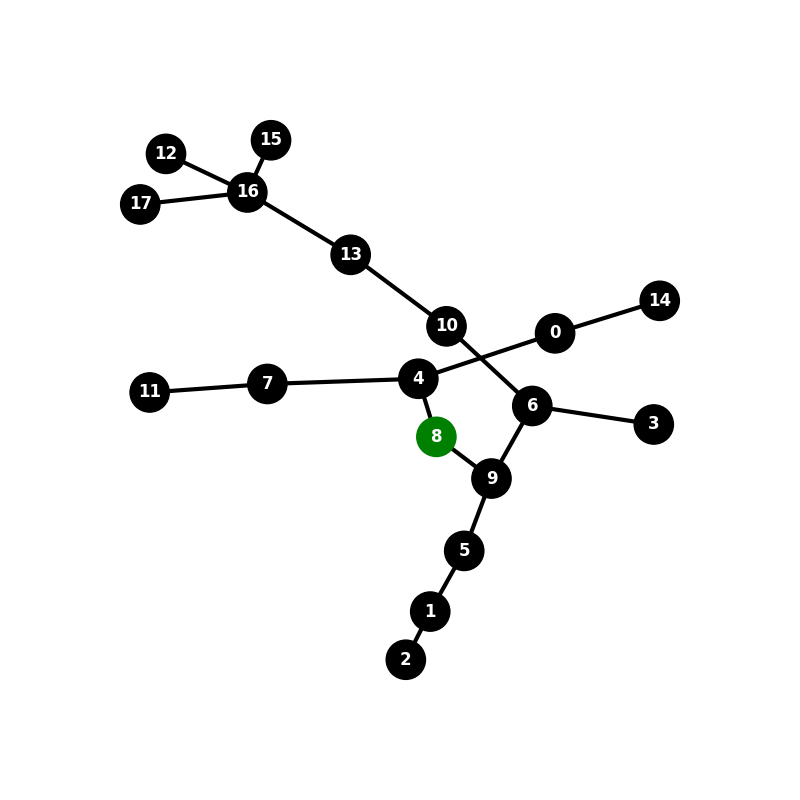
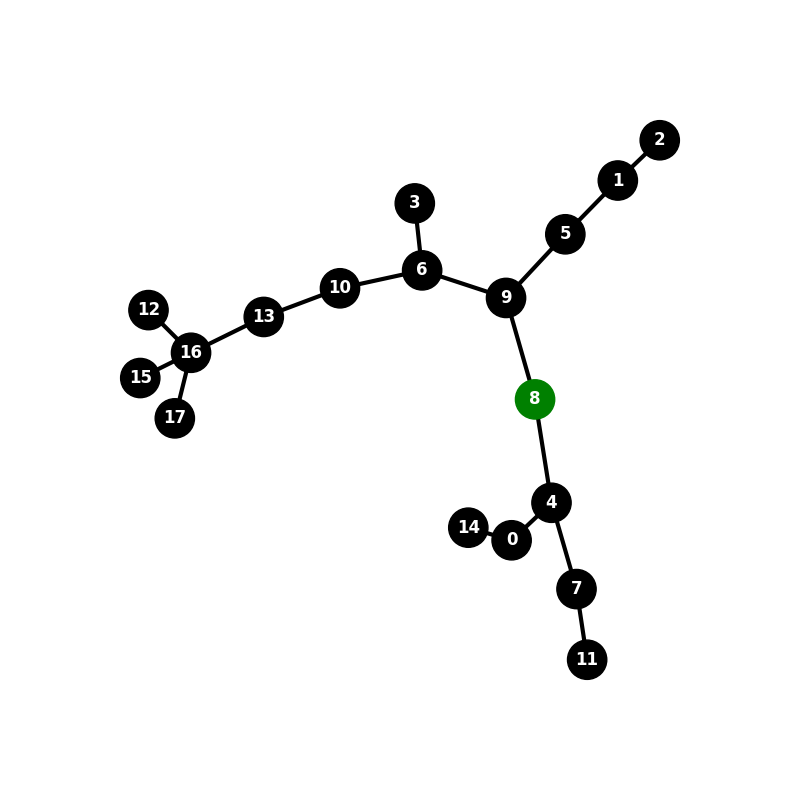
Update: modify function bfs to generate a tree instead of just returning the node as the output Create: bfs_forest for returning a forest instead of just the main tree in case of nodes isolated of the main subgraph

diff --git a/main.py b/main.py
@@ -13,7 +13,7 @@ graph = {
     7: [2, 4],
 }
 
-graph_17nodes_root0 = {
+dfs_graph_17nodes_root0 = {
     0: [1, 2, 4, 7, 14],
     1: [0, 2, 4, 5],
     2: [0, 1, 6],
@@ -34,7 +34,7 @@ graph_17nodes_root0 = {
     17: [3, 10, 13],
 }
 
-graph_17nodes_root8 = {
+dfs_graph_17nodes_root8 = {
     0: [4, 14],
     1: [2, 5],
     2: [1, 5],
@@ -53,6 +53,49 @@ graph_17nodes_root8 = {
     15: [16],
     16: [12, 13, 15, 17],
     17: [13, 16]
+}
+
+bfs_graph_17nodes_root0 = {
+    0: [1, 4, 7, 14],
+    1: [0, 5],
+    2: [3, 5, 6],
+    3: [2, 6, 10],
+    4: [0],
+    5: [1, 2, 8, 9],
+    6: [2, 3, 9, 10],
+    7: [0, 8, 11, 14],
+    8: [5, 7, 9],
+    9: [5, 6, 8, 13],
+    10: [3, 6],
+    11: [7, 12, 15],
+    12: [11, 13, 15, 16],
+    13: [9, 12, 16],
+    14: [0, 7],
+    15: [11, 12, 16, 17],
+    16: [12, 13, 15, 17],
+    17: [15, 16],
+}
+
+# generate forest
+bfs_graph_17nodes_root8 = {
+    0: [2],
+    1: [0, 2, 5, 4],
+    2: [0, 1, 3, 5, 6],
+    3: [2, 6, 10],
+    4: [1, 5, 7, 8],
+    5: [1, 2, 4, 6, 8, 9],
+    6: [2, 3, 5, 10],
+    7: [4, 8],
+    8: [4, 5, 7, 9],
+    9: [5, 8, 10, 13],
+    10: [3, 6, 9, 13],
+    11: [14],
+    12: [13, 16],
+    13: [9, 10, 12, 16],
+    14: [11],
+    15: [17],
+    16: [12, 13, 17],
+    17: [15, 16],
 }
 
 
@@ -124,7 +167,7 @@ def generate_graph(graph, root, image_name): # root is the node that starts the 
     plt.savefig(f'images/{image_name}.png')
     plt.clf() # for the image not to be overlap by the last one, when calling the function more then one time
 
-def get_child_not_visited(graph, node, visited):
+def get_neighbor_not_visited(graph, node, visited):
 
     if node not in graph:
         return None
@@ -136,30 +179,54 @@ def get_child_not_visited(graph, node, visited):
 
 def bfs(graph, root):
     visited = set()
-    queue = deque() # deque() to implement FIFO, because set is without order
-                    # deque also takes O(1) time to remove first element while the list takes O(n)
+    tree = {root: []} # tree = {node: [neighbor1, neighbor2]}
+    queue = deque() # deque implements a FIFO queue efficiently
+                    # popleft() takes O(1) time, while removing the first
+                    # element from a list takes O(n)
 
     visited.add(root)
     queue.append(root)
 
-    print('BFS:')
-
     while queue:
         node = queue.popleft() # remove the first element in the queue
-        print(node, end=' ')
 
+        print(f"Current node: {node}")
+        print(f"Queue: {list(queue)}\n")
+        
         for neighbor in graph[node]:
             if neighbor not in visited:
                 visited.add(neighbor)
+
+                # assure that the neighbor is in the tree
+                if neighbor not in tree:
+                    tree[neighbor] = []
+                
+                # add the neighbor to the tree as a child of the current node
+                tree[node].append(neighbor) 
+
                 queue.append(neighbor)
+
+    return tree
+
+# generate forest with the roots being the first node of the graph that is not visited yet
+def bfs_forest(graph, root):
+    visited = set()
+    forest = {} # forest = {node_tree1: [neighbor1, neighbor2], node_tree1: [neighbor3] node_tree2: [neighbor4, neighbor5]}
+
+    for node in graph:
+        if node not in visited:
+            tree = bfs(graph, node)
+            for node_tree in tree:
+                forest[node_tree] = tree[node_tree]
+            visited.update(tree.keys()) # add all nodes of the tree to the visited set
+        
+    return forest
     
-    print('\n\n')
 
 def dfs(graph, root):
     visited = set()
     tree = {root: []} # tree = {node: [neighbor1, neighbor2]}
-    stack = [root] # stack = [(node, parent)]
-                   # no need to use deque, since list already takes O(1) time to append and pop the element in last position
+    stack = [root] # no need to use deque, since list append() and pop() from the end are already O(1)
                            
     visited.add(root)
 
@@ -172,20 +239,20 @@ def dfs(graph, root):
         print(f"Current node: {node}")
         print(f"Stack: {stack}\n")
 
-        # check next child of the last node in the stack
-        child_not_visited = get_child_not_visited(graph, node, visited)
+        # check next neighbor of the last node in the stack
+        neighbor_not_visited = get_neighbor_not_visited(graph, node, visited)
 
-        if child_not_visited is not None:
-            visited.add(child_not_visited)
+        if neighbor_not_visited is not None:
+            visited.add(neighbor_not_visited)
 
-            # assure that the child is in the tree
-            if child_not_visited not in tree:
-                tree[child_not_visited] = []
+            # assure that the neighbor is in the tree
+            if neighbor_not_visited not in tree:
+                tree[neighbor_not_visited] = []
             
-            # add the child to the tree as a child of the last node in the stack
-            tree[node].append(child_not_visited) 
+            # add the neighbor to the tree as a child of the last node in the stack
+            tree[node].append(neighbor_not_visited) 
 
-            stack.append(child_not_visited)
+            stack.append(neighbor_not_visited)
 
             # image_name = f'dfs_tree_{node}_{i}'
             # generate_graph(tree, root, image_name)
@@ -198,18 +265,33 @@ def dfs(graph, root):
 print('GRAPH:')
 generate_graph(graph, 1, 'graph')
 dfs_tree = dfs(graph, 1)
-generate_graph(dfs_tree, 1, 'dfs_tree')
+generate_graph(dfs_tree, 1, 'dfs_tree_graph')
 print(f'\n{"-"*20}\n')
 
-print('GRAPH 17 NODES ROOT 0:')
-generate_graph(graph_17nodes_root0, 0, 'graph_17nodes_root0')
-dfs_tree_17nodes_root0 = dfs(graph_17nodes_root0, 0)
+print('DFS - GRAPH 17 NODES ROOT 0:')
+generate_graph(dfs_graph_17nodes_root0, 0, 'dfs_graph_17nodes_root0')
+dfs_tree_17nodes_root0 = dfs(dfs_graph_17nodes_root0, 0)
 generate_graph(dfs_tree_17nodes_root0, 0, 'dfs_tree_17nodes_root0')
 print(f'\n{"-"*20}\n')
 
-print('GRAPH 17 NODES ROOT 8:')
-generate_graph(graph_17nodes_root8, 8, 'graph_17nodes_root8')
-dfs_tree_17nodes_root8 = dfs(graph_17nodes_root8, 8)
+print('DFS - GRAPH 17 NODES ROOT 8:')
+generate_graph(dfs_graph_17nodes_root8, 8, 'dfs_graph_17nodes_root8')
+dfs_tree_17nodes_root8 = dfs(dfs_graph_17nodes_root8, 8)
 generate_graph(dfs_tree_17nodes_root8, 8, 'dfs_tree_17nodes_root8')
+print(f'\n{"-"*20}\n')
+
+print('BFS - GRAPH 17 NODES ROOT 0:')
+generate_graph(bfs_graph_17nodes_root0, 0, 'bfs_graph_17nodes_root0')
+bfs_tree_17nodes_root0 = bfs(bfs_graph_17nodes_root0, 0)
+generate_graph(bfs_tree_17nodes_root0, 0, 'bfs_tree_17nodes_root0')
+print(f'\n{"-"*20}\n')
+
+# generate forest
+print('BFS - GRAPH 17 NODES ROOT 8:')
+generate_graph(bfs_graph_17nodes_root8, 8, 'bfs_graph_17nodes_root8')
+bfs_tree_17nodes_root8 = bfs(bfs_graph_17nodes_root8, 8)
+generate_graph(bfs_tree_17nodes_root8, 8, 'bfs_tree_17nodes_root8')
+bfs_forest_17nodes_root8 = bfs_forest(bfs_graph_17nodes_root8, 8)
+generate_graph(bfs_forest_17nodes_root8, 8, 'bfs_forest_17nodes_root8')
 
 plt.close()